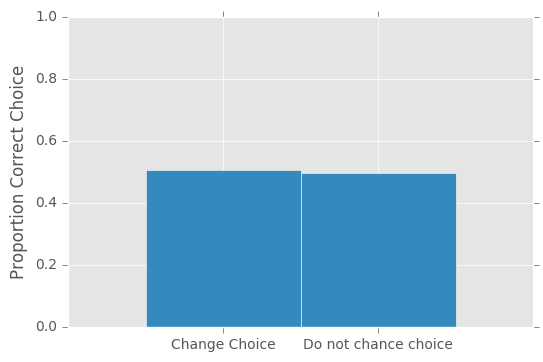
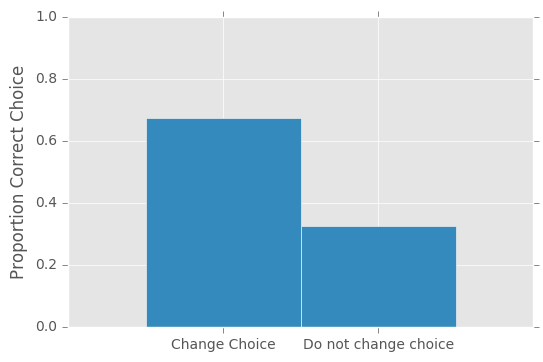
Site updated at 2016-12-25 20:38:07 UTC

Changed region(s): [[0.2652, 0.3039, 0.8545, 0.6381], [0.7072, 0.942, 0.8545, 0.9724]]

diff --git a/blog/2016/12/25/simulating-the-monty-hall-problem/index.html b/blog/2016/12/25/simulating-the-monty-hall-problem/index.html
@@ -193,7 +193,7 @@ src="http://cdn.mathjax.org/mathjax/latest/MathJax.js?config=TeX-AMS-MML_HTMLorM
 </span><span class="line"><span class="n">plt</span><span class="o">.</span><span class="n">xlim</span><span class="p">((</span><span class="mi">0</span><span class="p">,</span><span class="mi">3</span><span class="p">))</span>
 </span><span class="line"><span class="n">plt</span><span class="o">.</span><span class="n">ylim</span><span class="p">((</span><span class="mi">0</span><span class="p">,</span><span class="mi">1</span><span class="p">))</span>
 </span><span class="line"><span class="n">plt</span><span class="o">.</span><span class="n">ylabel</span><span class="p">(</span><span class="s">&#39;Proportion Correct Choice&#39;</span><span class="p">)</span>
-</span><span class="line"><span class="n">plt</span><span class="o">.</span><span class="n">xticks</span><span class="p">((</span><span class="mf">1.0</span><span class="p">,</span><span class="mf">2.0</span><span class="p">),[</span><span class="s">&#39;Change Choice&#39;</span><span class="p">,</span> <span class="s">&#39;Do not chance choice&#39;</span><span class="p">])</span>
+</span><span class="line"><span class="n">plt</span><span class="o">.</span><span class="n">xticks</span><span class="p">((</span><span class="mf">1.0</span><span class="p">,</span><span class="mf">2.0</span><span class="p">),[</span><span class="s">&#39;Change Choice&#39;</span><span class="p">,</span> <span class="s">&#39;Do not change choice&#39;</span><span class="p">])</span>
 </span><span class="line">
 </span><span class="line"><span class="kn">import</span> <span class="nn">scipy.stats</span> <span class="kn">as</span> <span class="nn">stats</span>
 </span><span class="line"><span class="n">obs</span> <span class="o">=</span> <span class="n">np</span><span class="o">.</span><span class="n">array</span><span class="p">([[</span><span class="n">np</span><span class="o">.</span><span class="n">sum</span><span class="p">(</span><span class="n">change</span><span class="p">),</span> <span class="n">np</span><span class="o">.</span><span class="n">sum</span><span class="p">(</span><span class="n">no_change</span><span class="p">)],</span> <span class="p">[</span><span class="n">samples</span><span class="p">,</span> <span class="n">samples</span><span class="p">]])</span>
@@ -257,7 +257,7 @@ Probability of difference arising from chance: 0.00000
 </span><span class="line"><span class="n">plt</span><span class="o">.</span><span class="n">xlim</span><span class="p">((</span><span class="mi">0</span><span class="p">,</span><span class="mi">3</span><span class="p">))</span>
 </span><span class="line"><span class="n">plt</span><span class="o">.</span><span class="n">ylim</span><span class="p">((</span><span class="mi">0</span><span class="p">,</span><span class="mi">1</span><span class="p">))</span>
 </span><span class="line"><span class="n">plt</span><span class="o">.</span><span class="n">ylabel</span><span class="p">(</span><span class="s">&#39;Proportion Correct Choice&#39;</span><span class="p">)</span>
-</span><span class="line"><span class="n">plt</span><span class="o">.</span><span class="n">xticks</span><span class="p">((</span><span class="mf">1.0</span><span class="p">,</span><span class="mf">2.0</span><span class="p">),[</span><span class="s">&#39;Change Choice&#39;</span><span class="p">,</span> <span class="s">&#39;Do not chance choice&#39;</span><span class="p">])</span>
+</span><span class="line"><span class="n">plt</span><span class="o">.</span><span class="n">xticks</span><span class="p">((</span><span class="mf">1.0</span><span class="p">,</span><span class="mf">2.0</span><span class="p">),[</span><span class="s">&#39;Change Choice&#39;</span><span class="p">,</span> <span class="s">&#39;Do not change choice&#39;</span><span class="p">])</span>
 </span><span class="line">
 </span><span class="line"><span class="n">obs</span> <span class="o">=</span> <span class="n">np</span><span class="o">.</span><span class="n">array</span><span class="p">([[</span><span class="n">np</span><span class="o">.</span><span class="n">sum</span><span class="p">(</span><span class="n">change</span><span class="p">),</span> <span class="n">np</span><span class="o">.</span><span class="n">sum</span><span class="p">(</span><span class="n">no_change</span><span class="p">)],</span> <span class="p">[</span><span class="n">samples</span><span class="p">,</span> <span class="n">samples</span><span class="p">]])</span>
 </span><span class="line"><span class="k">print</span><span class="p">(</span><span class="s">&#39;Probability of choosing correctly if change choice: </span><span class="si">%0.2f</span><span class="s">&#39;</span> <span class="o">%</span> <span class="n">np</span><span class="o">.</span><span class="n">mean</span><span class="p">(</span><span class="n">change</span><span class="p">))</span>

diff --git a/blog/index.html b/blog/index.html
@@ -196,7 +196,7 @@ src="http://cdn.mathjax.org/mathjax/latest/MathJax.js?config=TeX-AMS-MML_HTMLorM
 </span><span class="line"><span class="n">plt</span><span class="o">.</span><span class="n">xlim</span><span class="p">((</span><span class="mi">0</span><span class="p">,</span><span class="mi">3</span><span class="p">))</span>
 </span><span class="line"><span class="n">plt</span><span class="o">.</span><span class="n">ylim</span><span class="p">((</span><span class="mi">0</span><span class="p">,</span><span class="mi">1</span><span class="p">))</span>
 </span><span class="line"><span class="n">plt</span><span class="o">.</span><span class="n">ylabel</span><span class="p">(</span><span class="s">&#39;Proportion Correct Choice&#39;</span><span class="p">)</span>
-</span><span class="line"><span class="n">plt</span><span class="o">.</span><span class="n">xticks</span><span class="p">((</span><span class="mf">1.0</span><span class="p">,</span><span class="mf">2.0</span><span class="p">),[</span><span class="s">&#39;Change Choice&#39;</span><span class="p">,</span> <span class="s">&#39;Do not chance choice&#39;</span><span class="p">])</span>
+</span><span class="line"><span class="n">plt</span><span class="o">.</span><span class="n">xticks</span><span class="p">((</span><span class="mf">1.0</span><span class="p">,</span><span class="mf">2.0</span><span class="p">),[</span><span class="s">&#39;Change Choice&#39;</span><span class="p">,</span> <span class="s">&#39;Do not change choice&#39;</span><span class="p">])</span>
 </span><span class="line">
 </span><span class="line"><span class="kn">import</span> <span class="nn">scipy.stats</span> <span class="kn">as</span> <span class="nn">stats</span>
 </span><span class="line"><span class="n">obs</span> <span class="o">=</span> <span class="n">np</span><span class="o">.</span><span class="n">array</span><span class="p">([[</span><span class="n">np</span><span class="o">.</span><span class="n">sum</span><span class="p">(</span><span class="n">change</span><span class="p">),</span> <span class="n">np</span><span class="o">.</span><span class="n">sum</span><span class="p">(</span><span class="n">no_change</span><span class="p">)],</span> <span class="p">[</span><span class="n">samples</span><span class="p">,</span> <span class="n">samples</span><span class="p">]])</span>
@@ -260,7 +260,7 @@ Probability of difference arising from chance: 0.00000
 </span><span class="line"><span class="n">plt</span><span class="o">.</span><span class="n">xlim</span><span class="p">((</span><span class="mi">0</span><span class="p">,</span><span class="mi">3</span><span class="p">))</span>
 </span><span class="line"><span class="n">plt</span><span class="o">.</span><span class="n">ylim</span><span class="p">((</span><span class="mi">0</span><span class="p">,</span><span class="mi">1</span><span class="p">))</span>
 </span><span class="line"><span class="n">plt</span><span class="o">.</span><span class="n">ylabel</span><span class="p">(</span><span class="s">&#39;Proportion Correct Choice&#39;</span><span class="p">)</span>
-</span><span class="line"><span class="n">plt</span><span class="o">.</span><span class="n">xticks</span><span class="p">((</span><span class="mf">1.0</span><span class="p">,</span><span class="mf">2.0</span><span class="p">),[</span><span class="s">&#39;Change Choice&#39;</span><span class="p">,</span> <span class="s">&#39;Do not chance choice&#39;</span><span class="p">])</span>
+</span><span class="line"><span class="n">plt</span><span class="o">.</span><span class="n">xticks</span><span class="p">((</span><span class="mf">1.0</span><span class="p">,</span><span class="mf">2.0</span><span class="p">),[</span><span class="s">&#39;Change Choice&#39;</span><span class="p">,</span> <span class="s">&#39;Do not change choice&#39;</span><span class="p">])</span>
 </span><span class="line">
 </span><span class="line"><span class="n">obs</span> <span class="o">=</span> <span class="n">np</span><span class="o">.</span><span class="n">array</span><span class="p">([[</span><span class="n">np</span><span class="o">.</span><span class="n">sum</span><span class="p">(</span><span class="n">change</span><span class="p">),</span> <span class="n">np</span><span class="o">.</span><span class="n">sum</span><span class="p">(</span><span class="n">no_change</span><span class="p">)],</span> <span class="p">[</span><span class="n">samples</span><span class="p">,</span> <span class="n">samples</span><span class="p">]])</span>
 </span><span class="line"><span class="k">print</span><span class="p">(</span><span class="s">&#39;Probability of choosing correctly if change choice: </span><span class="si">%0.2f</span><span class="s">&#39;</span> <span class="o">%</span> <span class="n">np</span><span class="o">.</span><span class="n">mean</span><span class="p">(</span><span class="n">change</span><span class="p">))</span>
